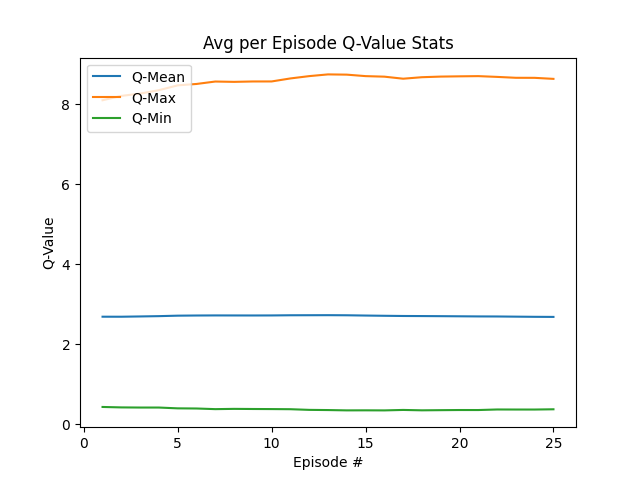
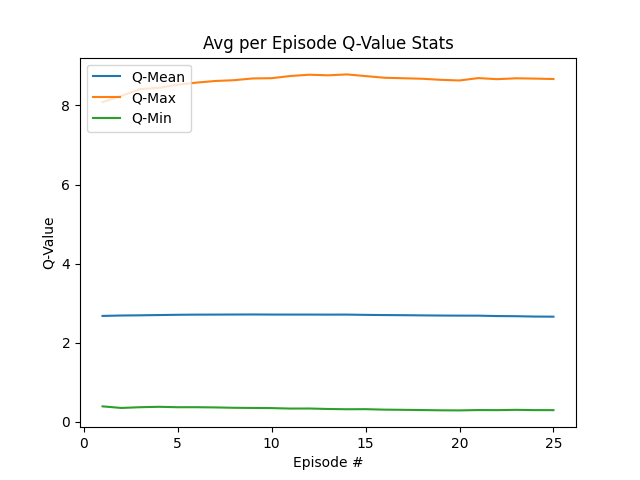
changed float16 back to float32s.  Tried implemented multithreading in sample_mini_batch

diff --git a/Illinois_hw/memory.py b/Illinois_hw/memory.py
@@ -3,6 +3,7 @@ from collections import deque
 import numpy as np
 import random
 import torch
+from concurrent.futures import ThreadPoolExecutor
 
 
 class ReplayMemory(object):
@@ -149,16 +150,28 @@ class CircularReplayMemoryPER:
         sample_valid_indices = [self.valid_indices[i] for i in valid_indices_idxs]  # get the actual valid_indices
 
 
-        mini_batch = []
-        for idx in sample_valid_indices:
+        # mini_batch = []
+        # for idx in sample_valid_indices:
+        #     sample = [(self.memory[(idx + j) % self.capacity]) for j in range(self.history_size + 1)]
+        #     sample = np.array(sample, dtype=object)
+
+        #     states = np.stack(sample[:, 0], axis=0)
+        #     actions = int(sample[self.history_size - 1, 1])
+        #     rewards = float(sample[self.history_size - 1, 2])
+        #     terminations = bool(sample[self.history_size - 1, 3])
+        
+        def build_sample(idx):
             sample = [(self.memory[(idx + j) % self.capacity]) for j in range(self.history_size + 1)]
             sample = np.array(sample, dtype=object)
-
             states = np.stack(sample[:, 0], axis=0)
             actions = int(sample[self.history_size - 1, 1])
             rewards = float(sample[self.history_size - 1, 2])
             terminations = bool(sample[self.history_size - 1, 3])
-            mini_batch.append((states, actions, rewards, terminations))
+            return (states, actions, rewards, terminations)
+
+        with ThreadPoolExecutor(max_workers=4) as executor:
+            mini_batch = list(executor.map(build_sample, sample_valid_indices))
+
 
         ## DEBUG ###
         # if random.random() < 0.001:

diff --git a/Illinois_hw/agent.py b/Illinois_hw/agent.py
@@ -113,13 +113,13 @@ class Agent():
         mini_batch = np.array(mini_batch, dtype=object).transpose()
 
         history = np.stack(mini_batch[0], axis=0)
-        states = np.float16(history[:, :HISTORY_SIZE, :, :]) / 255.
+        states = np.float32(history[:, :HISTORY_SIZE, :, :]) / 255.
         states = torch.from_numpy(states).cuda()
         actions = list(mini_batch[1])
         actions = torch.LongTensor(actions).cuda()
         rewards = list(mini_batch[2])
         rewards = torch.FloatTensor(rewards).cuda()
-        next_states = np.float16(history[:, 1:, :, :]) / 255.
+        next_states = np.float32(history[:, 1:, :, :]) / 255.
         terminations = list(mini_batch[3]) # checks if the game round is over
         terminations = torch.tensor(terminations, dtype=torch.bool).to(device)
 
